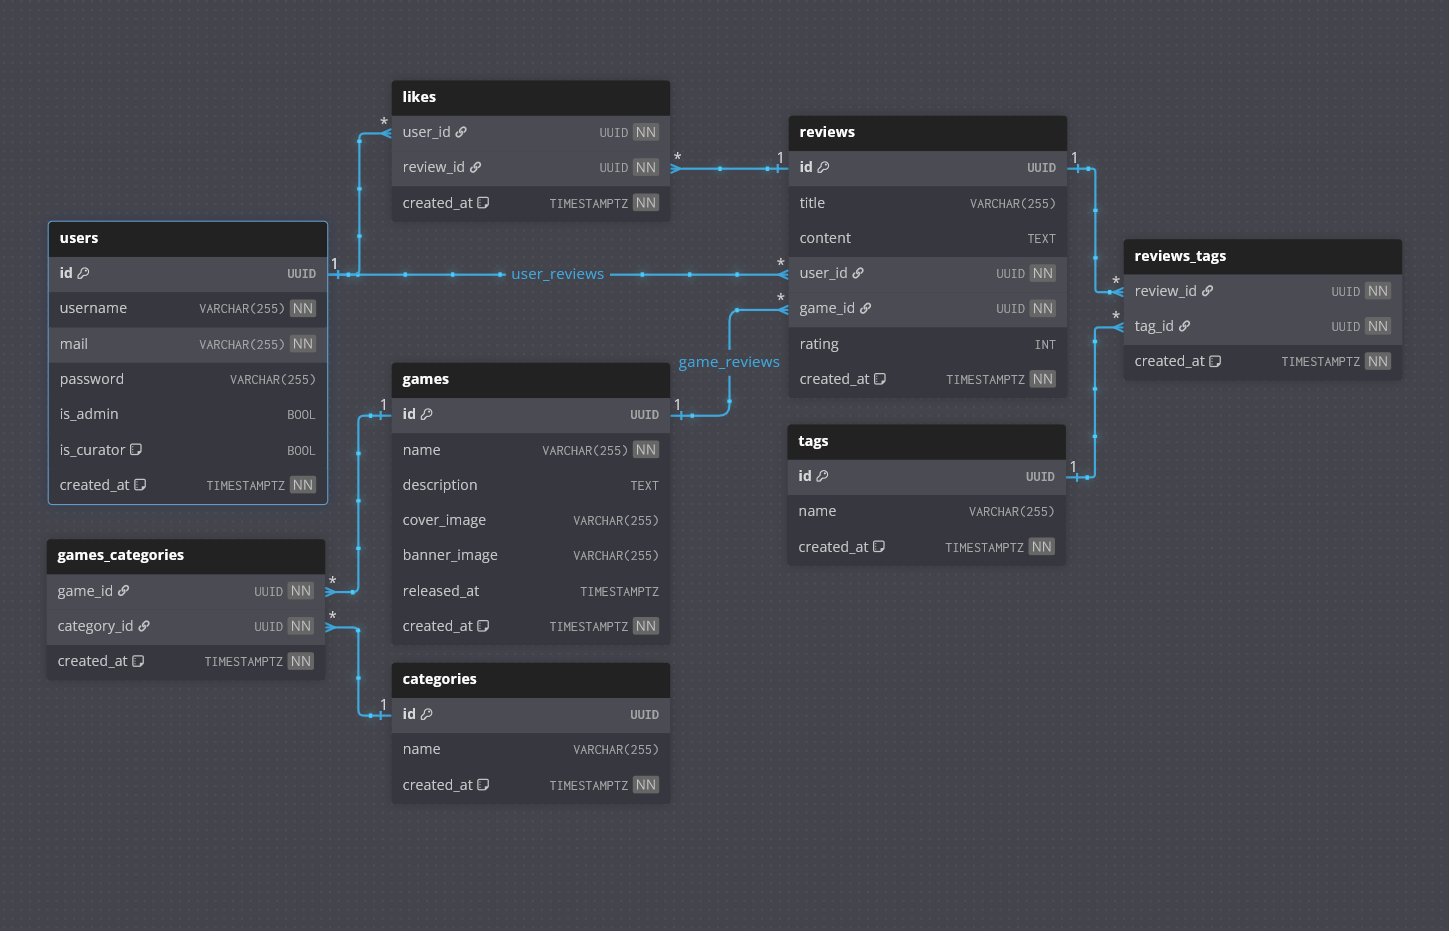
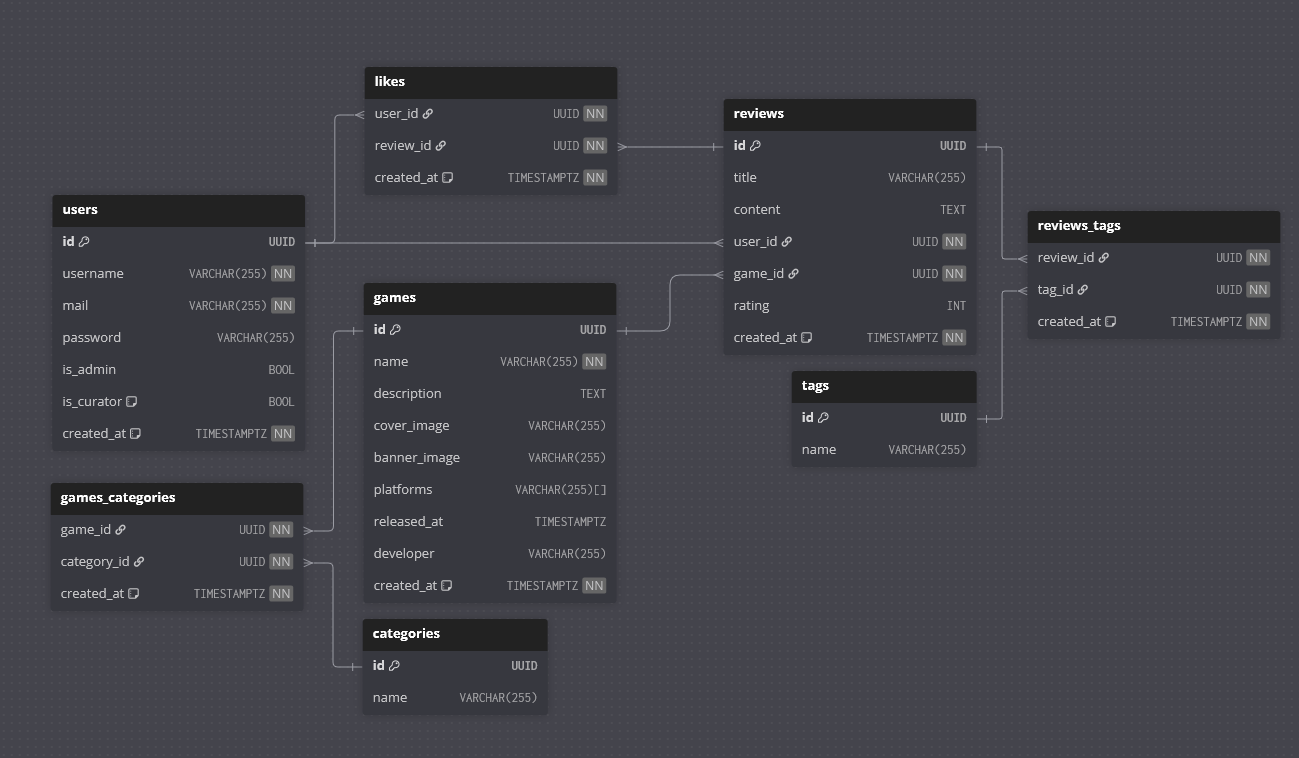
chore: update LDM doc

Changed region(s): [[0.0308, 0.091, 0.9854, 0.8799], [0.3695, 0.9103, 0.4003, 0.9406]]

diff --git a/docs/LDM.md b/docs/LDM.md
@@ -4,13 +4,11 @@
 Table tags {
   id UUID [pk]
   name VARCHAR(255)
-  created_at TIMESTAMPTZ [not null, default: `CURRENT_TIMESTAMP`]
 }
 
 Table categories {
   id UUID [pk]
   name VARCHAR(255)
-  created_at TIMESTAMPTZ [not null, default: `CURRENT_TIMESTAMP`]
 }
 
 Table games {
@@ -19,7 +17,9 @@ Table games {
   description TEXT
   cover_image VARCHAR(255)
   banner_image VARCHAR(255)
+  platforms VARCHAR(255)[]
   released_at TIMESTAMPTZ
+  developer VARCHAR(255)
   created_at TIMESTAMPTZ [not null, default: `CURRENT_TIMESTAMP`]
 }
 
